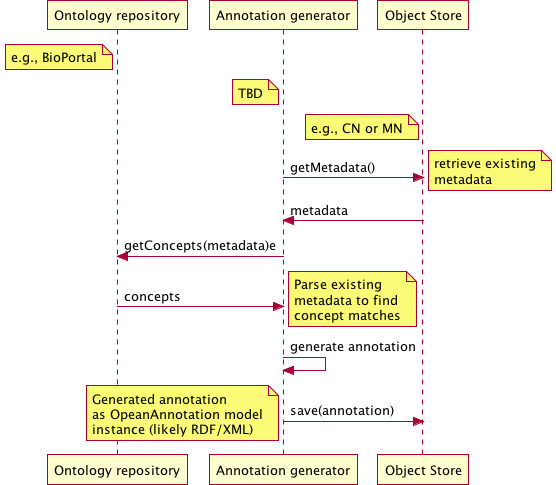
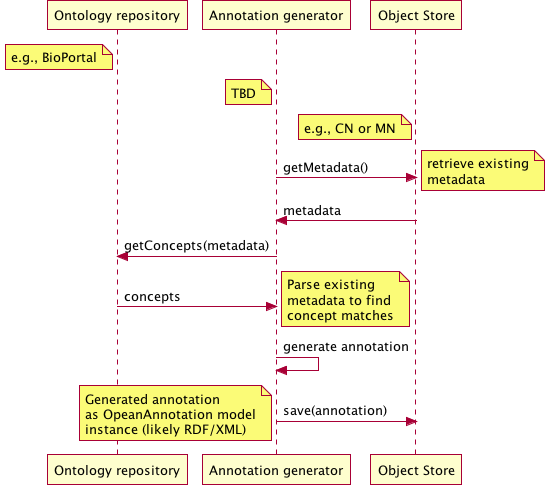
add note about automatic annotation process applying to both existing and new (incoming) content -- they are very similar scenarios

diff --git a/docs/use-cases/semantics/use-case-50.rst b/docs/use-cases/semantics/use-case-50.rst
@@ -23,6 +23,7 @@ provide more precise query results while also expanding our query criteria to in
 Summary
 -------
 Using natural language to do a "first pass" at assigning semantic annotations will help organize our holdings and [hopefully] provide better search recall.
+This can be done on existing "legacy" content as well as on any new incoming data packages. Perhaps at the discretion of the MN that contributes the objects?
 
 
 Sequence Diagram
@@ -44,7 +45,7 @@ Sequence Diagram
 	  end note
 	  store -> autoann: metadata
 	  
-	  autoann -> ontrepo: getConcepts(metadata)e
+	  autoann -> ontrepo: getConcepts(metadata)
 	  ontrepo -> autoann: concepts
 	  note right
 	  	Parse existing 
@@ -70,14 +71,14 @@ Actors
 
 Preconditions
 -------------
-* Datapackages with attribute-level metadata needs to be registered in DataONE network
+* Datapackages with attribute-level metadata need to be registered in DataONE network
 * The annotation generator must have read-access to the metadata
 * The annotation generator must have write access to the CN/MN store. TBD.
 
 Postconditions
 --------------
 * The generated annotations are stored on the Coordinating Node.
-* The annotations are marked as being created by the automatic process
+* The annotations are marked as being created by the automatic process.
 * The annotations share the same permissions as the metadata upon which they are based.
 
 Notes
